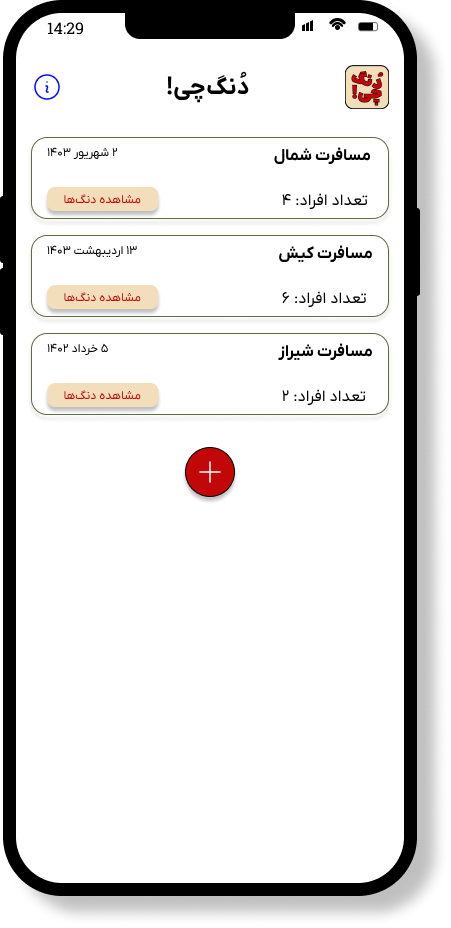
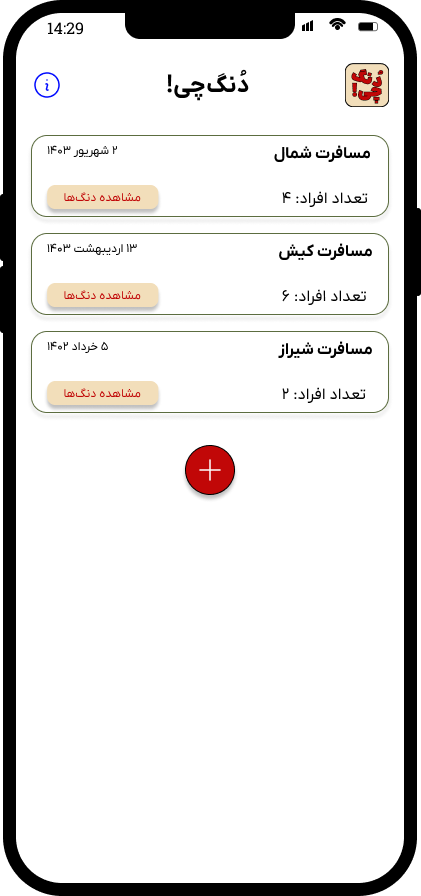
set image

diff --git a/components/hero-home.tsx b/components/hero-home.tsx
@@ -57,7 +57,7 @@ export default function HeroHome() {
             data-aos="zoom-y-out"
             data-aos-delay={600}
           >
-            <Image src={Phone} alt="phone-image"/>
+            <Image src={Phone} alt="phone-image" className="mx-auto"/>
           </div>
         </div>
       </div>
